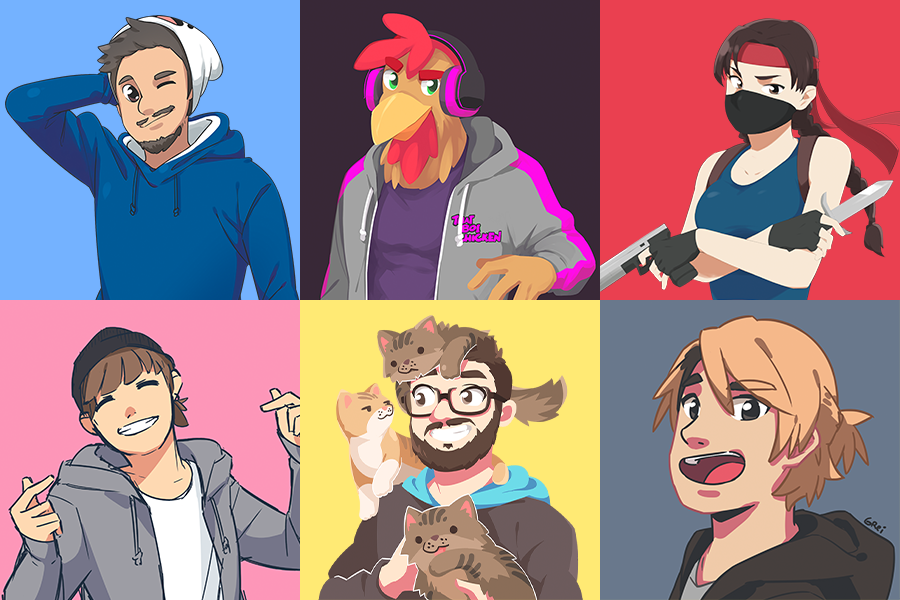
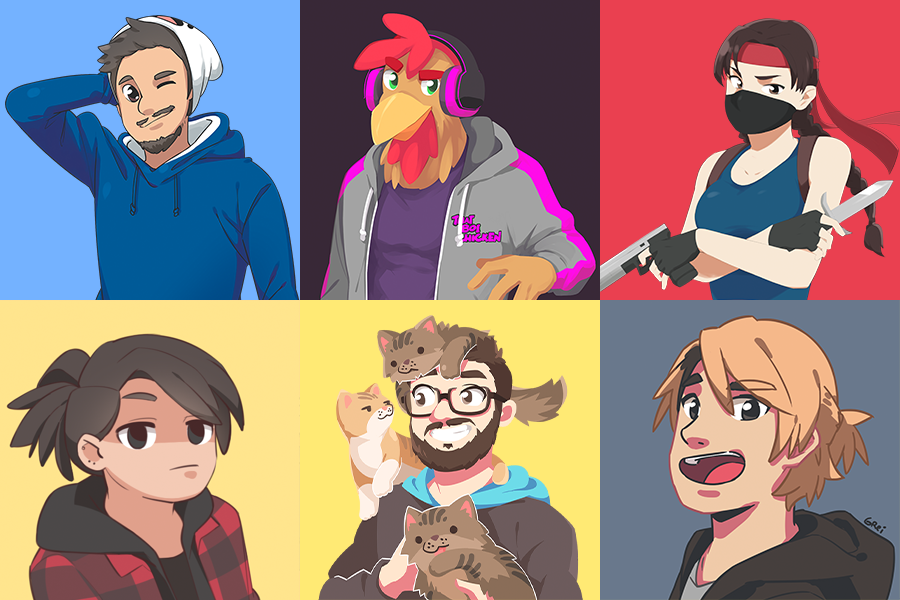
updated

Changed region(s): [[0.0, 0.48, 0.3422, 1.0]]

diff --git a/index.html b/index.html
@@ -69,18 +69,18 @@
                 <div class="col-sm-4">
                         <div class="img-wrap" data-toggle="modal" data-target=".img-1"><img src="/img/freefall copy.png" class="img-fluid"></div>
                         <div class="img-wrap" data-toggle="modal" data-target=".img-4"><img src="/img/noob avi.png" class="img-fluid"></div>
-                        <div class="img-wrap" data-toggle="modal" data-target=".img-7"><img src="/img/anatomy of a gray v4.png" class="img-fluid"></div>
+                        <div class="img-wrap" data-toggle="modal" data-target=".img-7"><img src="/img/anatomy of a gray v5.jpg" class="img-fluid"></div>
                         <!-- <div class="img-wrap"><img src="/img/altruistic offline screen.png" class="img-fluid"></div> -->
                 </div>
                 <div class="col-sm-4">
                         <div class="img-wrap" data-toggle="modal" data-target=".img-2"><img src="/img/jenlisa comfy.png" class="img-fluid"></div>
-                        <div class="img-wrap" data-toggle="modal" data-target=".img-5"><img src="/img/jenlisa 2.png" class="img-fluid"></div>
+                        <div class="img-wrap" data-toggle="modal" data-target=".img-5"><img src="/img/jenlisa-0523.jpg" class="img-fluid"></div>
                         <div class="img-wrap" data-toggle="modal" data-target=".img-8"><img src="/img/frey wallpaper.png" class="img-fluid"></div>
                         <!-- <div class="img-wrap"><img src="/img/esc.png" class="img-fluid"></div> -->
                 </div>
                 <div class="col-sm-4">
                         <div class="img-wrap" data-toggle="modal" data-target=".img-3"><img src="/img/doki 2018.png" class="img-fluid"></div>
-                        <div class="img-wrap" data-toggle="modal" data-target=".img-6"><img src="/img/lazy patriot banner.png" class="img-fluid"></div>
+                        <div class="img-wrap" data-toggle="modal" data-target=".img-6"><img src="/img/blackpink-ot4.jpg" class="img-fluid"></div>
                         <div class="img-wrap" data-toggle="modal" data-target=".img-9"><img src="/img/GenuineGenin avatar revised.png" class="img-fluid"></div>
                         <!-- <div class="img-wrap"><img src="/img/toon me.png" class="img-fluid"></div> -->
                 </div>
@@ -138,7 +138,7 @@
         <div class="modal fade img-5" tabindex="-1" role="dialog" aria-labelledby="myLargeModalLabel" aria-hidden="true">
         <div class="modal-dialog modal-lg">
             <div class="modal-content">
-                <img src="/img/jenlisa 2.png" class="img-fluid">
+                <img src="/img/jenlisa-0523.jpg" class="img-fluid">
             </div>
         </div>
         </div>
@@ -146,14 +146,14 @@
         <div class="modal fade img-6" tabindex="-1" role="dialog" aria-labelledby="myLargeModalLabel" aria-hidden="true">
         <div class="modal-dialog modal-lg">
             <div class="modal-content">
-                <img src="/img/lazy patriot banner.png" class="img-fluid">
+                <img src="/img/blackpink-ot4.jpg" class="img-fluid">
             </div>
         </div>
         </div>
         <div class="modal fade img-7" tabindex="-1" role="dialog" aria-labelledby="myLargeModalLabel" aria-hidden="true">
         <div class="modal-dialog modal-lg">
             <div class="modal-content">
-                <img src="/img/anatomy of a gray v4.png" class="img-fluid">
+                <img src="/img/anatomy of a gray v5.jpg" class="img-fluid">
             </div>
         </div>
         </div>

diff --git a/about/index.html b/about/index.html
@@ -67,7 +67,7 @@
             <div class="row section-body section-faq">
                 <div class="col-lg-4 text-center">
                     <h4>Yo! グレー</h4>
-                    <p>Yo! I'm Gray, 23-year old Filipino human lol. BS Information Technology graduate, part gamer, artist,
+                    <p>Yo! I'm Gray, 24-year old Filipino human lol. BS Information Technology graduate, part gamer, artist,
                         and programmer. Currently working as a UI/UX Designer (ugh how did i get here).
 
                     </p>
